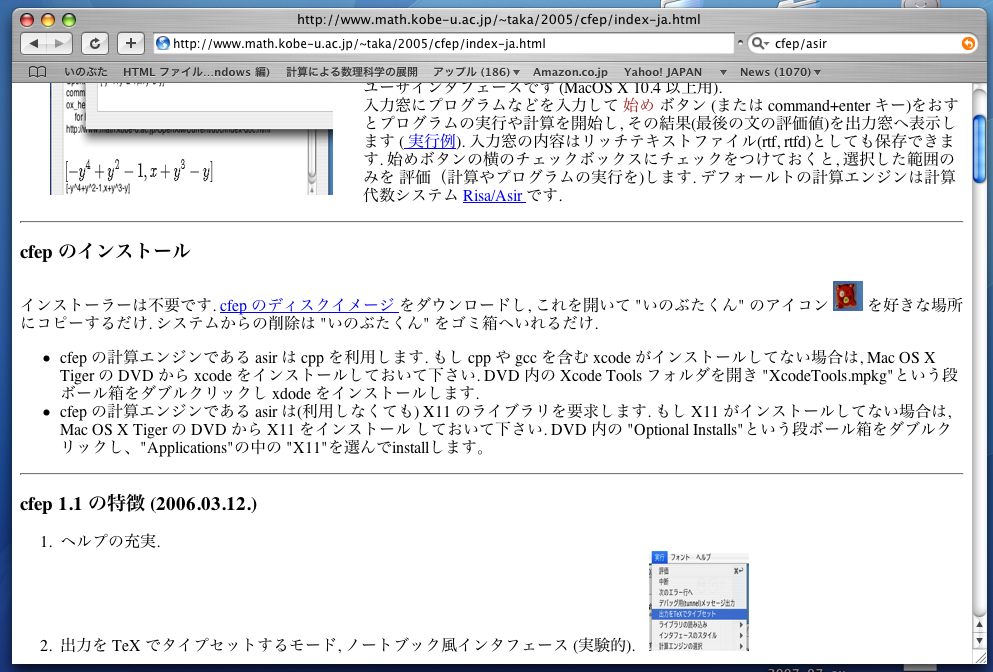
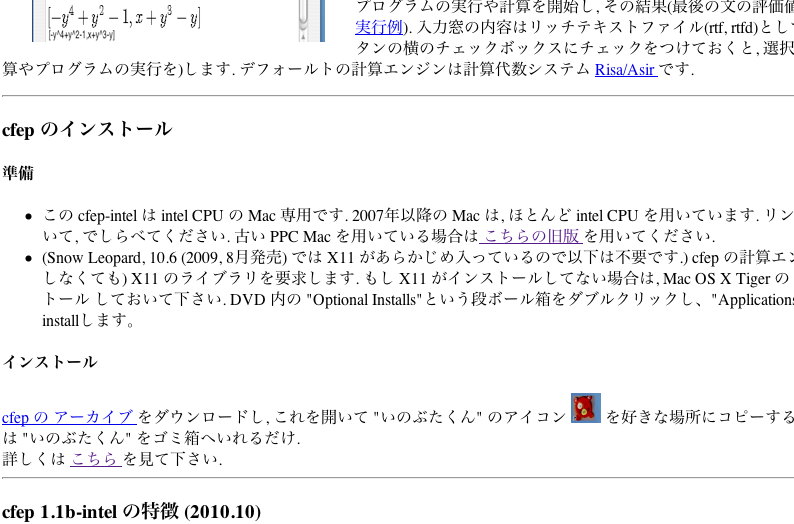
The cfep/asir web is updated. cfep-intel is the default download.

diff --git a/src/cfep/Doc/intro-ja.html b/src/cfep/Doc/intro-ja.html
@@ -7,7 +7,7 @@
 <img src="opening1.png" align="left" width="30%" height="50%" 
      hspace="30" vspace="10"/>
 <ul>
-<li> <a href="#changelog"> cfep 1.1b $B$N?75!G=(B </a> 
+<li> <a href="#changelog"> cfep 1.1b-intel $B$N?75!G=(B </a> 
 <li> <a href="#whatIsCfep"> cfep$B$K$D$$$F(B </a> 
 <li> <a href="#intro"> $BF~Lg(B </a> 
 <li> <a href="#faq"> $BLdBj$r2r7h$9$k(B </a> 
@@ -37,34 +37,34 @@ command+enter $B%-!<(B)$B$r$*$9$H%W%m%0%i%`$N<B9T$d7W;;$r3+;O$7(B,
 <hr/>
 
 <h3> cfep $B$N%$%s%9%H!<%k(B </h3>
-$B%$%s%9%H!<%i!<$OITMW$G$9(B.
-<a href="http://www.math.kobe-u.ac.jp/HOME/taka/2005/cfep/cfep.dmg.gz">
-cfep $B$N%G%#%9%/%$%a!<%8(B </a> $B$r%@%&%s%m!<%I$7(B, $B$3$l$r3+$$$F(B "$B$$$N$V$?$/$s(B" $B$N%"%$%3%s(B
-<img src="inobuta.png" width="30" height="30"/> $B$r9%$-$J>l=j$K%3%T!<$9$k$@$1(B.  
-$B%7%9%F%`$+$i$N:o=|$O(B "$B$$$N$V$?$/$s(B" $B$r%4%_H"$X$$$l$k$@$1(B.   <br>
-$B>\$7$/$O(B <a href="cfep-asir-install/cfep-asir-install.html">
-$B$3$A$i(B </a> $B$r8+$F2<$5$$(B.
-$B:G?7HG$N(B cfep (2007-10$B7nHG0J8e(B)
-$B$G$O2<5-$N(B cpp $B$d(B X11 $B$,%$%s%9%H!<%k$7$F$J$$$H7Y9p$,=P$^$9(B. 
-$BBg3X$N65<<Ey$N(B Mac $B$G$O(B
-$B$"$i$+$8$a$3$l$i$O%$%s%9%H!<%k$7$F$"$k$3$H$,B?$$$h$&$G$9(B.
+
+<h4> $B=`Hw(B </h4>
 <ul>
-<li> cfep $B$N7W;;%(%s%8%s$G$"$k(B asir $B$O(B cpp $B$rMxMQ$7$^$9(B. 
-$B$b$7(B cpp $B$d(B gcc $B$r4^$`(B xcode $B$,%$%s%9%H!<%k$7$F$J$$>l9g$O(B, 
-Mac OS X Tiger $B$N(B DVD $B$+$i(B xcode $B$r%$%s%9%H!<%k$7$F$*$$$F2<$5$$(B.
-DVD $BFb$N(B Xcode Tools $B%U%)%k%@$r3+$-(B "XcodeTools.mpkg"$B$H$$$&CJ%\!<%kH"$r%@%V%k%/%j%C%/$7(B
-xdode $B$r%$%s%9%H!<%k$7$^$9(B.
-<li> cfep $B$N7W;;%(%s%8%s$G$"$k(B asir $B$O(B($BMxMQ$7$J$/$F$b(B) X11 $B$N%i%$%V%i%j$rMW5a$7$^$9(B.
+<li> $B$3$N(B cfep-intel $B$O(B intel CPU $B$N(B Mac $B@lMQ$G$9(B. 
+2007$BG/0J9_$N(B Mac $B$O(B, $B$[$H$s$I(B intel
+CPU $B$rMQ$$$F$$$^$9(B. $B%j%s%4%^!<%/(B/$B$3$N%^%C%/$K$D$$$F(B, $B$G$7$i$Y$F$/$@$5$$(B.
+$B8E$$(B PPC Mac $B$rMQ$$$F$$$k>l9g$O(B<a href="http://www.math.kobe-u.ac.jp/HOME/taka/2005/cfep/intro-ja.html"> $B$3$A$i$N5lHG(B </a> $B$rMQ$$$F$/$@$5$$(B.
+<li> (Snow Leopard, 10.6 (2009, 8$B7nH/Gd(B) $B$G$O(B X11 $B$,$"$i$+$8$aF~$C$F$$$k$N$G0J2<$OITMW$G$9(B.)
+cfep $B$N7W;;%(%s%8%s$G$"$k(B asir $B$O(B($BMxMQ$7$J$/$F$b(B) X11 $B$N%i%$%V%i%j$rMW5a$7$^$9(B.
 $B$b$7(B X11 $B$,%$%s%9%H!<%k$7$F$J$$>l9g$O(B, Mac OS X Tiger $B$N(B DVD $B$+$i(B X11 $B$r%$%s%9%H!<%k(B
 $B$7$F$*$$$F2<$5$$(B.
 DVD $BFb$N(B "Optional Installs"$B$H$$$&CJ%\!<%kH"$r%@%V%k%/%j%C%/$7!"(B"Applications"$B$NCf$N(B "X11"$B$rA*$s$G(Binstall$B$7$^$9!#(B  
 </ul>
 
+<h4> $B%$%s%9%H!<%k(B </h4>
+<a href="http://www.math.kobe-u.ac.jp/Asir/cfep/cfep-intel.zip">
+cfep $B$N(B $B%"!<%+%$%V(B </a> $B$r%@%&%s%m!<%I$7(B, $B$3$l$r3+$$$F(B "$B$$$N$V$?$/$s(B" $B$N%"%$%3%s(B
+<img src="inobuta.png" width="30" height="30"/> $B$r9%$-$J>l=j$K%3%T!<$9$k$@$1(B.  
+$B%7%9%F%`$+$i$N:o=|$O(B "$B$$$N$V$?$/$s(B" $B$r%4%_H"$X$$$l$k$@$1(B.   <br>
+$B>\$7$/$O(B <a href="cfep-asir-install/cfep-asir-install.html">
+$B$3$A$i(B </a> $B$r8+$F2<$5$$(B.
+
 
 <hr>
 <h3 id="changelog" name="changelog">
-     cfep 1.1b $B$NFCD'(B (2006.03.12., 05.04)</h3>
+     cfep 1.1b-intel $B$NFCD'(B (2010.10)</h3>
 <ol>
+<li> intel CPU $B@lMQ(B asir binary.
 <li> $B%X%k%W$N=<<B(B.
 <li> $B=PNO$r(B TeX $B$G%?%$%W%;%C%H$9$k%b!<%I(B, $B%N!<%H%V%C%/Iw%$%s%?%U%'!<%9(B ($B<B83E*(B).
  <img src="typesetByTeX.png" width="100" height="100" hspace="10"/> 
@@ -86,7 +86,7 @@ DVD $BFb$N(B "Optional Installs"$B$H$$$&CJ%\!<%kH"$r%@%V%k%/%j%C%/$7!"(B"App
    $B%X%k%W$NMxMQ(B. $B%0%i%U%#%C%/(B.  For $BJ8$K$h$k?tNs$N7W;;(B. cfep $B%$%s%?%U%'!<%9>e5iJT(B.
    $BA*BrHO0O$N$_<B9T(B. OpenGL)
 <li> <a href="pdf/asir-book.pdf">
-     Risa/Asir$B%I%j%k(B2003  (pdf/asir-book.pdf) </a>,   
+     Risa/Asir$B%I%j%k(B2010  (pdf/asir-book.pdf) </a>,   
    (<a href="http://www.math.kobe-u.ac.jp/~taka/asir-book-html/main/index.html">
      HTML$BHG(B ($B%M%C%H%o!<%/(B)   </a>).
 </ol>

diff --git a/src/cfep/Doc/cfep-asir-install/cfep-asir-install.html b/src/cfep/Doc/cfep-asir-install/cfep-asir-install.html
@@ -6,20 +6,10 @@
 
 <h1>cfep/asir$B$N%$%s%9%H!<%k$N;EJ}(B</h1>
 
-<p>
-cfep/asir$B$N%$%s%9%H!<%k$NA0$K!"(BXcode$B$H(BX11$B$r%$%s%9%H!<%k$9$kI,MW$,$"$k!#(B
-</p>
+
 
 <p>
-Xcode$B$N%$%s%9%H!<%k$NJ}K!$O(B<a href = "Xcode-install-explanation.html">$B$3$A$i(B</a>
-</p>
-
-<p>
-X11$B$N%$%s%9%H!<%k$NJ}K!$O(B<a href = "x11-explanation-how-to-install.html">$B$3$A$i(B</a>
-</p>
-
-<p>
-$B2<$N2hA|$N(BURL <a href="http://www.math.kobe-u.ac.jp/HOME/taka/2005/cfep/index-ja.html"> $B$3$3(B </a> $B$K9T$-!"%@%&%s%m!<%I$r3+;O$9$k$?$a(B, $B!H(Bcfep$B$N%G%#%9%/%$%a!<%8!I$r%/%j%C%/$7$F$/$@$5$$!#(B
+$B2<$N2hA|$N(B <a href="http://www.math.kobe-u.ac.jp/Asir/cfep/intro-jahtml"> $B%Z!<%8(B </a> $B$K9T$-!"%@%&%s%m!<%I$r3+;O$9$k$?$a(B, $B!H(Bcfep$B$N%"!<%+%$%V!I$r%/%j%C%/$7$F$/$@$5$$!#(B
 </p>
 
 <p>
@@ -27,16 +17,25 @@ X11$B$N%$%s%9%H!<%k$NJ}K!$O(B<a href = "x11-explanation-how-to-install.html">
 </p>
 
 <p>
-<img src = "cfep-asir-2.png" width="100" height="120" align="left" alt="">$B$9$k$H!"%@%&%s%m!<%I$,$O$8$^$k$N$G!"$=$l$,40N;$7$?$i:8$N2hA|$N>e$NJ}$N%"%$%3%s$r%@%V%k%/%j%C%/$9$k$H(B(20061112 $B$NItJ,$O0c$&?t;z$+$b$7$l$J$$(B, $B%/%j%C%/$7$J$/$F$b<+F0E*$K2<$N%"%$%3%s$,=P$F$/$k>l9g$,B?$$(B)$B!"(B
-$B2<$N$h$&$J%"%$%3%s(B(cfep)$B$,=P$F$/$k(B.
+<img src = "cfep-asir-2.png" width="100" height="120" align="left" alt="">$B$9$k$H!"%@%&%s%m!<%I$,$O$8$^$k$N$G!"$=$l$,40N;$7$?$i:8$N2hA|$N>e$NJ}$N%"%$%3%s$r%@%V%k%/%j%C%/$9$k$H(B($B%P!<%8%g%s$N?t;zItJ,$O0c$&?t;z$+$b$7$l$J$$(B)$B!"(B
+$B2<$N$h$&$J%U%)%k%@(B(cfep-intel)$B$,@8@.$5$l$k(B.
 </p>
 
 <p>
-$B=P$F$-$?%"%$%3%s$r3+$/$H!"2<$N2hA|$,8=$l$k$N$G!"(Bcfep$B$N%"%$%3%s$r%G%#%9%/%H%C%W$K%I%i%C%0$7$F%3%T!<$7$F$/$@$5$$!#$3$N$H$-!"(Bsample$B$b%3%T!<$7$F$*$/$H$9$0$K(Bcfep$B$NF0:n3NG'$,$G$-$k$N$GJXMx$G$7$g$&!#(B
+$B%U%)%k%@$r3+$/$H!"2<$N2hA|$,8=$l$k$N$G!"(Bcfep$B$N%"%$%3%s$r%G%#%9%/%H%C%W$K%I%i%C%0$7$F%3%T!<$7$F$/$@$5$$!#$3$N$H$-!"(Bsample$B$b%3%T!<$7$F$*$/$H$9$0$K(Bcfep$B$NF0:n3NG'$,$G$-$k$N$GJXMx$G$7$g$&!#(B
 </p>
 
 <p>
 <img src = "cfep-asir-3.png"$B!!(Bwidth="550" height="340" >
+</p>
+
+<h2> $B;29M(B </h2>
+<p>
+Xcode$B$N%$%s%9%H!<%k$NJ}K!$O(B<a href = "Xcode-install-explanation.html">$B$3$A$i(B</a>
+</p>
+
+<p>
+X11$B$N%$%s%9%H!<%k$NJ}K!$O(B<a href = "x11-explanation-how-to-install.html">$B$3$A$i(B</a>
 </p>
 
 </body>

diff --git a/src/cfep/Doc/intro-en.html b/src/cfep/Doc/intro-en.html
@@ -4,8 +4,12 @@ Help in English is under construction.
 
 <h2>Install</h2>
 <ul>
-<li> Install the X11 application and the Xcode application from your MacOS DVD.
-<li> Drag and drop "cfep", then it is ready to run.
+<li> cfep/asir runs only on intel CPU.
+<li> Install the X11 application from your MacOS DVD if it is not installed
+( < SnowLeopard )
+<li> Download <a href="http://www.math.kobe-u.ac.jp/Asir/cfep/cfep-intel.zip"> 
+this archives </a> and expand it.
+<li> Drag and drop "cfep" at any place, then it is ready to run.
 </ul>
 
 <h2>Documents</h2>
